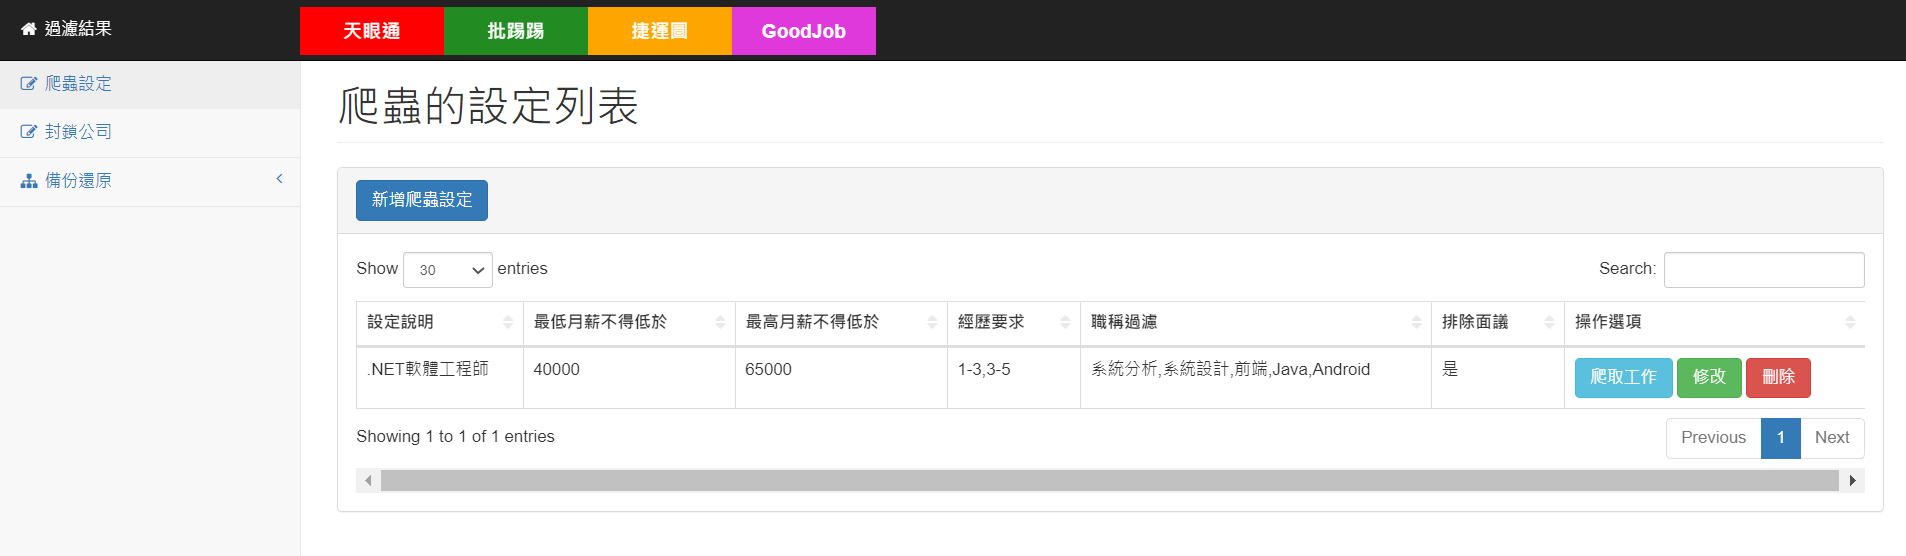
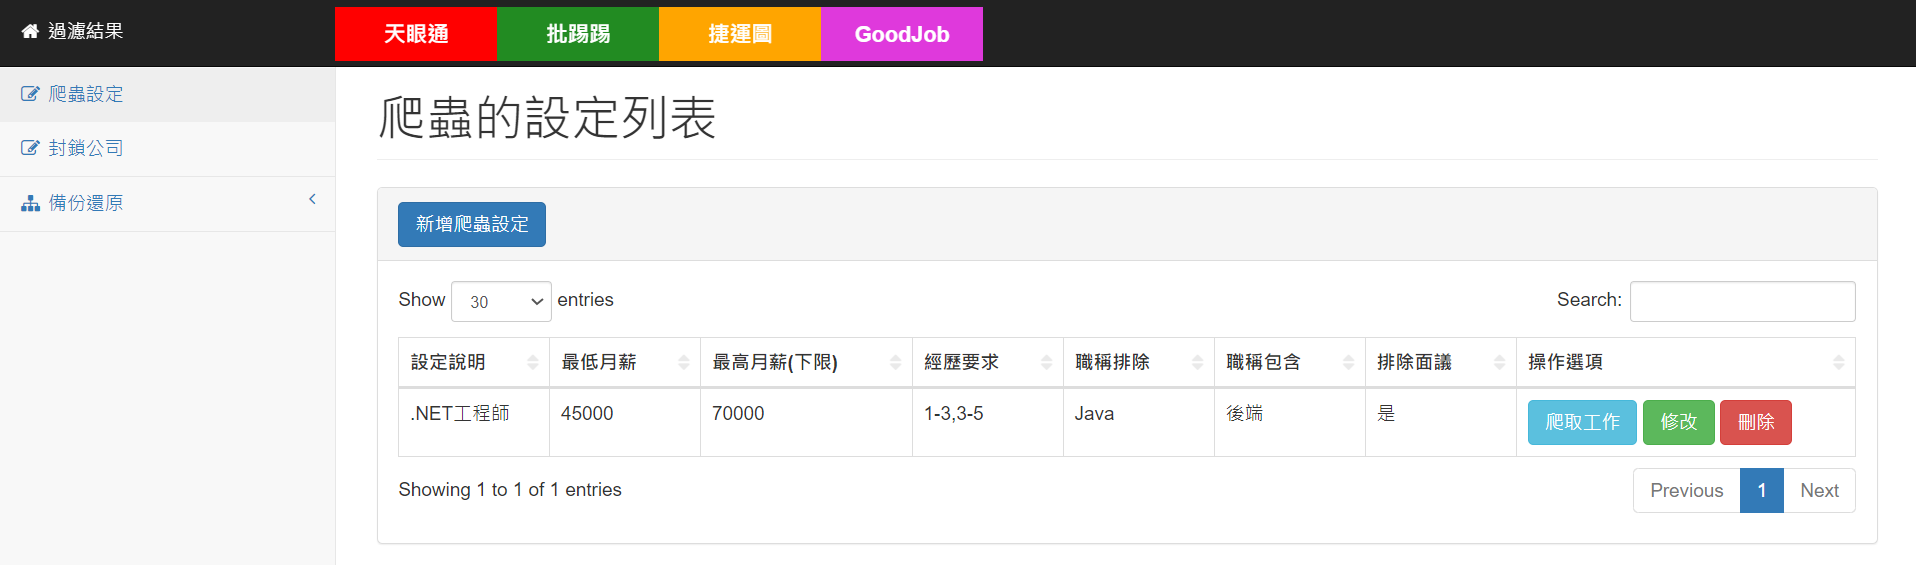
新增職缺關鍵字篩選

diff --git a/JobFilter2/Controllers/CrawlSettingController.cs b/JobFilter2/Controllers/CrawlSettingController.cs
@@ -118,10 +118,11 @@ namespace JobFilter2.Controllers
                 _context.Entry(data).Property(p => p.Remark).IsModified = true;
                 _context.Entry(data).Property(p => p.TargetUrl).IsModified = true;
                 _context.Entry(data).Property(p => p.MinSalary).IsModified = true;
+                _context.Entry(data).Property(p => p.MaxSalary).IsModified = true;
                 _context.Entry(data).Property(p => p.Seniority).IsModified = true;
                 _context.Entry(data).Property(p => p.ExcludeWords).IsModified = true;
+                _context.Entry(data).Property(p => p.IncludeWords).IsModified = true;
                 _context.Entry(data).Property(p => p.HasSalary).IsModified = true;
-                _context.Entry(data).Property(p => p.MaxSalary).IsModified = true;
                 await _context.SaveChangesAsync();
                 TempData["message"] = "修改成功";
             }
@@ -140,7 +141,6 @@ namespace JobFilter2.Controllers
             {
                 _context.Entry(data).State = EntityState.Deleted;
                 await _context.SaveChangesAsync();
-                //TempData["message"] = "刪除成功";
                 return "刪除成功";
             }
             catch (Exception ex)
@@ -170,6 +170,9 @@ namespace JobFilter2.Controllers
 
                 // 過濾掉職稱裡面含有特定關鍵字的職缺
                 jobItems = _jobFilterService.FilterByExcludeWords(jobItems, crawlSetting.ExcludeWords);
+
+                // 過濾掉職稱裡面沒有特定關鍵字的職缺
+                jobItems = _jobFilterService.FilterByIncludeWords(jobItems, crawlSetting.IncludeWords);
 
                 // 過濾掉最高月薪開太低的職缺(注意，這裡的設計會將待遇面議的職缺過濾掉)
                 jobItems = _jobFilterService.FilterByMaxSalary(jobItems, crawlSetting.MaxSalary);

diff --git a/JobFilter2/Services/JobFilterService.cs b/JobFilter2/Services/JobFilterService.cs
@@ -124,7 +124,46 @@ namespace JobFilter2.Services
                     }
                 }
 
+                // 若沒有關鍵字則添加
                 if (!hasWord)
+                {
+                    new_jobItems.Add(job);
+                }
+            }
+            return new_jobItems;
+        }
+
+        /// <summary>
+        /// 過濾掉職稱裡面沒有特定關鍵字的職缺
+        /// </summary>
+        /// <returns>過濾後的工作列表</returns>
+        public List<JobItem> FilterByIncludeWords(List<JobItem> jobItems, string includeWords)
+        {
+            if (string.IsNullOrEmpty(includeWords))
+            {
+                return jobItems;
+            }
+
+            List<JobItem> new_jobItems = new List<JobItem>();
+            List<string> inWords = includeWords.Split(',').ToList();
+
+            foreach (var job in jobItems)
+            {
+                // 檢查職稱是否包含關鍵字
+                bool hasWord = false;
+                foreach (string word in inWords)
+                {
+                    // 考慮到英文單字，兩邊都轉成小寫再進行比對
+                    // 添加 Trim 可以忽略多餘的空白
+                    if (job.Title.ToLower().Contains(word.Trim().ToLower()))
+                    {
+                        hasWord = true;
+                        break;
+                    }
+                }
+
+                // 若包含關鍵字則添加
+                if (hasWord)
                 {
                     new_jobItems.Add(job);
                 }

diff --git a/JobFilter2/Services/BackupService.cs b/JobFilter2/Services/BackupService.cs
@@ -1,7 +1,6 @@
 using CsvHelper;
 using JobFilter2.Models.Entities;
 using Microsoft.EntityFrameworkCore;
-using NLog;
 using System.Collections.Generic;
 using System.Globalization;
 using System.IO;

diff --git a/README.md b/README.md
@@ -40,9 +40,6 @@ dotnet add package NLog.Web.AspNetCore --version 4.13.0-readme-preview
 # 點選[職位名稱的超連結]，開啟該職缺的104頁面  
 ![image](https://github.com/Jacky20200711/JobFilter2/blob/master/DEMO_04.PNG?raw=true)  
 &emsp;  
-# 點選[封鎖公司]，彈出選擇理由的視窗  
-![image](https://github.com/Jacky20200711/JobFilter2/blob/master/DEMO_05.PNG?raw=true)  
-&emsp;  
 # 點選[公司名稱的超連結]  
 會自動以公司名稱到天眼通、goodjob、面試趣做搜尋，並開啟對應的分頁。  
 &emsp;  
